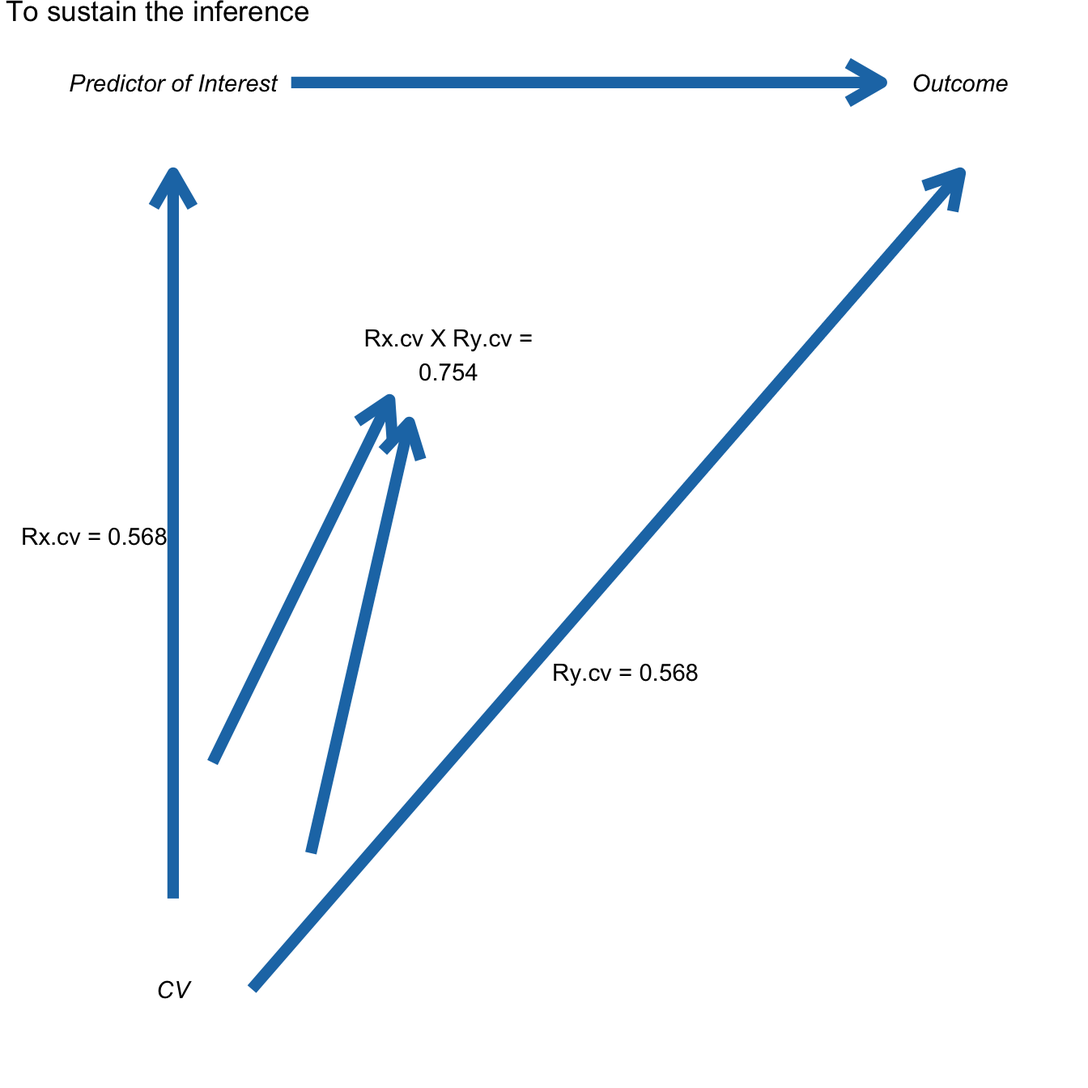
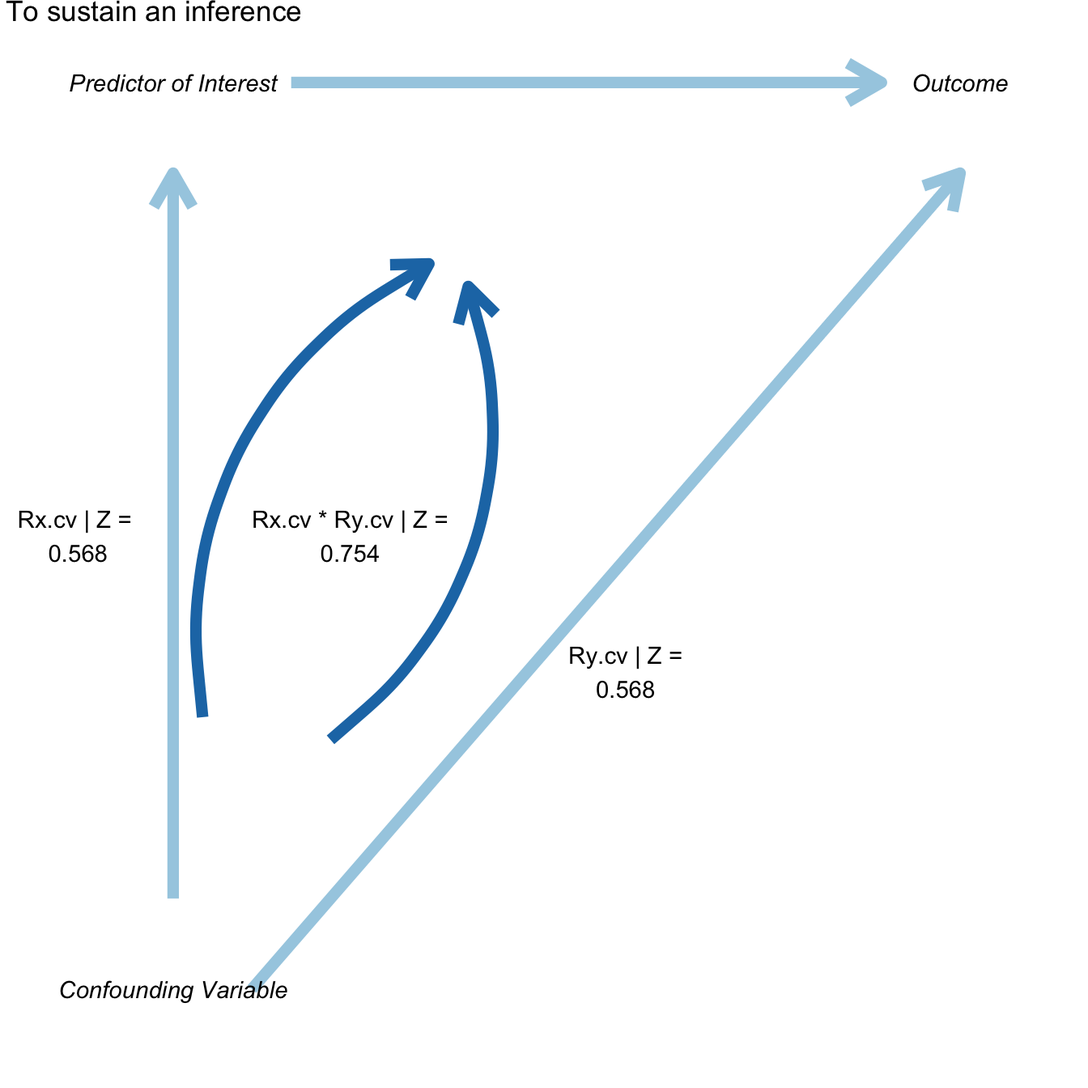
update docs and vignettes and pkgdown site

diff --git a/docs/articles/Introduction_to_konfound.html b/docs/articles/Introduction_to_konfound.html
@@ -50,7 +50,7 @@
       <h1>Introduction to konfound</h1>
                         <h4 class="author">Joshua Rosenberg, Ran Xu, and Ken Frank</h4>
             
-            <h4 class="date">2017-10-22</h4>
+            <h4 class="date">2017-10-28</h4>
           </div>
 
     
@@ -76,28 +76,31 @@
 <div class="sourceCode"><pre class="sourceCode r"><code class="sourceCode r"><span class="kw">library</span>(konfound)</code></pre></div>
 <pre><code>## Loading konfound</code></pre>
 <pre><code>## Sensitivity analysis as described in Frank, Maroulis, Duong, and Kelcey (2013).
-## For more information visit https://jmichaelrosenberg.shinyapps.io/shinykonfound/.
-## You can also find more information by running the function launch_shiny()</code></pre>
+## For more information visit https://jmichaelrosenberg.shinyapps.io/shinykonfound/.</code></pre>
 </div>
 <div id="use-of-pkonfound" class="section level1">
 <h1 class="hasAnchor">
 <a href="#use-of-pkonfound" class="anchor"></a>Use of pkonfound()</h1>
 <div class="sourceCode"><pre class="sourceCode r"><code class="sourceCode r"><span class="kw"><a href="../reference/pkonfound.html">pkonfound</a></span>(<span class="dv">2</span>, .<span class="dv">4</span>, <span class="dv">100</span>, <span class="dv">3</span>)</code></pre></div>
-<pre><code>## To invalidate the inference, 60.3 % of the estimate would have to be due to bias.
-## To invalidate the inference, 60 observations would have to be replaced with cases for which there is no effect.
+<pre><code>## Replacement of Cases Approach:
+## To invalidate the inference, 60.3 % of the estimate would have to be due to bias.
+## To invalidate the inference, 60 observations would have to be replaced with cases for which the effect is 0 .
 ## 
+## Correlation-based Approach:
 ## An omitted variable would have to be correlated at 0.568 with the outcome and at 0.568 with the predictor of interest (conditioning on observed covariates) to invalidate an inference.
-## Correspondingly the impact of an omitted variable (as defined in Frank 2000) must be 0.754 to invalidate an inference.</code></pre>
+## Correspondingly the impact of an omitted variable (as defined in Frank 2000) must be 0.568 * 0.568 = 0.754 to sustain an inference.</code></pre>
 <div class="sourceCode"><pre class="sourceCode r"><code class="sourceCode r"><span class="kw"><a href="../reference/pkonfound.html">pkonfound</a></span>(<span class="dv">2</span>, .<span class="dv">4</span>, <span class="dv">100</span>, <span class="dv">3</span>, <span class="dt">to_return =</span> <span class="st">"thresh_plot"</span>)</code></pre></div>
 <p><img src="Introduction_to_konfound_files/figure-html/unnamed-chunk-3-1.png" width="480"></p>
 <div class="sourceCode"><pre class="sourceCode r"><code class="sourceCode r"><span class="kw"><a href="../reference/pkonfound.html">pkonfound</a></span>(<span class="dv">2</span>, .<span class="dv">4</span>, <span class="dv">100</span>, <span class="dv">3</span>, <span class="dt">to_return =</span> <span class="st">"corr_plot"</span>)</code></pre></div>
 <p><img src="Introduction_to_konfound_files/figure-html/unnamed-chunk-4-1.png" width="672"></p>
 <div class="sourceCode"><pre class="sourceCode r"><code class="sourceCode r"><span class="kw"><a href="../reference/pkonfound.html">pkonfound</a></span>(.<span class="dv">4</span>, <span class="dv">2</span>, <span class="dv">100</span>, <span class="dv">3</span>)</code></pre></div>
-<pre><code>## To sustain the inference,  89.924 % of the estimate would have to be due to bias.
-## To sustain the inference,  90  of the cases with 0 effect would have to be replaced with cases at the threshold of inference.
+<pre><code>## Replacement of Cases Approach:
+## To sustain the inference,  89.924 % of the estimate would have to be due to bias.
+## To sustain the inference,  90  of the cases with 0  effect would have to be replaced with cases at the threshold of inference.
 ## 
+## Correlation-based Approach:
 ## An omitted variable would have to be correlated at 0.387 with the outcome and at 0.387 with the predictor of interest (conditioning on observed covariates) to sustain an inference.
-## Correspondingly the impact of an omitted variable (as defined in Frank 2000) must be 0.622 to sustain an inference.</code></pre>
+## Correspondingly the impact of an omitted variable (as defined in Frank 2000) must be 0.387 * 0.387 = 0.622 to invalidate an inference.</code></pre>
 <div class="sourceCode"><pre class="sourceCode r"><code class="sourceCode r"><span class="kw"><a href="../reference/pkonfound.html">pkonfound</a></span>(.<span class="dv">4</span>, <span class="dv">2</span>, <span class="dv">100</span>, <span class="dv">3</span>, <span class="dt">to_return =</span> <span class="st">"thresh_plot"</span>)</code></pre></div>
 <p><img src="Introduction_to_konfound_files/figure-html/unnamed-chunk-5-1.png" width="480"></p>
 <div class="sourceCode"><pre class="sourceCode r"><code class="sourceCode r"><span class="kw"><a href="../reference/pkonfound.html">pkonfound</a></span>(.<span class="dv">4</span>, <span class="dv">2</span>, <span class="dv">100</span>, <span class="dv">3</span>, <span class="dt">to_return =</span> <span class="st">"corr_plot"</span>)</code></pre></div>
@@ -119,11 +122,13 @@ m1</code></pre></div>
 ## (Intercept)           wt           hp  
 ##    37.22727     -3.87783     -0.03177</code></pre>
 <div class="sourceCode"><pre class="sourceCode r"><code class="sourceCode r"><span class="kw"><a href="../reference/konfound.html">konfound</a></span>(m1, hp)</code></pre></div>
-<pre><code>## To invalidate the inference, 42.561 % of the estimate would have to be due to bias.
-## To invalidate the inference, 14 observations would have to be replaced with cases for which there is no effect.
+<pre><code>## Replacement of Cases Approach:
+## To invalidate the inference, 42.561 % of the estimate would have to be due to bias.
+## To invalidate the inference, 14 observations would have to be replaced with cases for which the effect is 0 .
 ## 
+## Correlation-based Approach:
 ## An omitted variable would have to be correlated at 0.556 with the outcome and at 0.556 with the predictor of interest (conditioning on observed covariates) to invalidate an inference.
-## Correspondingly the impact of an omitted variable (as defined in Frank 2000) must be 0.746 to invalidate an inference.</code></pre>
+## Correspondingly the impact of an omitted variable (as defined in Frank 2000) must be 0.556 * 0.556 = 0.746 to sustain an inference.</code></pre>
 <div class="sourceCode"><pre class="sourceCode r"><code class="sourceCode r"><span class="kw"><a href="../reference/konfound.html">konfound</a></span>(m1, <span class="dt">test_all =</span> T)</code></pre></div>
 <pre><code>##   var_name unstd_beta std_err n_obs n_covariates
 ## 1       wt     -3.878   0.633    32            1
@@ -145,11 +150,13 @@ d<span class="op">$</span>married &lt;-<span class="st"> </span><span class="kw"
 
 m2 &lt;-<span class="st"> </span><span class="kw">glm</span>(married <span class="op">~</span><span class="st"> </span>age, <span class="dt">data =</span> d, <span class="dt">family =</span> <span class="kw">binomial</span>(<span class="dt">link =</span> <span class="st">"logit"</span>))
 <span class="kw"><a href="../reference/konfound.html">konfound</a></span>(m2, age)</code></pre></div>
-<pre><code>## To sustain the inference,  80.978 % of the estimate would have to be due to bias.
-## To sustain the inference,  17334  of the cases with 0 effect would have to be replaced with cases at the threshold of inference.
+<pre><code>## Replacement of Cases Approach:
+## To sustain the inference,  80.978 % of the estimate would have to be due to bias.
+## To sustain the inference,  17334  of the cases with 0  effect would have to be replaced with cases at the threshold of inference.
 ## 
+## Correlation-based Approach:
 ## An omitted variable would have to be correlated at 5.535 with the outcome and at 5.535 with the predictor of interest (conditioning on observed covariates) to invalidate an inference.
-## Correspondingly the impact of an omitted variable (as defined in Frank 2000) must be 2.353 to invalidate an inference.</code></pre>
+## Correspondingly the impact of an omitted variable (as defined in Frank 2000) must be 5.535 * 5.535 = 2.353 to sustain an inference.</code></pre>
 </div>
 </div>
 <div id="use-of-mkonfound" class="section level1">
@@ -195,6 +202,14 @@ m2 &lt;-<span class="st"> </span><span class="kw">glm</span>(married <span class
 <pre><code>## `stat_bin()` using `bins = 30`. Pick better value with `binwidth`.</code></pre>
 <p><img src="Introduction_to_konfound_files/figure-html/unnamed-chunk-9-1.png" width="480"></p>
 </div>
+<div id="references" class="section level1">
+<h1 class="hasAnchor">
+<a href="#references" class="anchor"></a>References</h1>
+<p>Frank, K.A., Maroulis, S., Duong, M., and Kelcey, B. 2013. What would it take to Change an Inference?: Using Rubin’s Causal Model to Interpret the Robustness of Causal Inferences. Education, Evaluation and Policy Analysis. Vol 35: 437-460. <a href="https://msu.edu/~kenfrank/What%20would%20it%20take%20to%20Change%20an%20Inference%20published.docx">https://msu.edu/~kenfrank/What%20would%20it%20take%20to%20Change%20an%20Inference%20published.docx</a></p>
+<p>Frank, K.A., Gary Sykes, Dorothea Anagnostopoulos, Marisa Cannata, Linda Chard, Ann Krause, Raven McCrory. 2008. Extended Influence: National Board Certified Teachers as Help Providers. Education, Evaluation, and Policy Analysis. Vol 30(1): 3-30. <a href="https://msu.edu/~kenfrank/papers/Does%20NBPTS%20Certification%20Affect%20the%20Number%20of%20Colleagues%20a%20Teacher%20Helps%20with%20Instructional%20Matters%20acceptance%20version%202.doc">https://msu.edu/~kenfrank/papers/Does%20NBPTS%20Certification%20Affect%20the%20Number%20of%20Colleagues%20a%20Teacher%20Helps%20with%20Instructional%20Matters%20acceptance%20version%202.doc</a></p>
+<p>Frank, K. A. and Min, K. 2007. Indices of Robustness for Sample Representation. Sociological Methodology. Vol 37, 349-392. <a href="https://msu.edu/~kenfrank/papers/INDICES%20OF%20ROBUSTNESS%20TO%20CONCERNS%20REGARDING%20THE%20REPRESENTATIVENESS%20OF%20A%20SAMPLE.doc">https://msu.edu/~kenfrank/papers/INDICES%20OF%20ROBUSTNESS%20TO%20CONCERNS%20REGARDING%20THE%20REPRESENTATIVENESS%20OF%20A%20SAMPLE.doc</a> *co first authors.</p>
+<p>Frank, K. 2000. “Impact of a Confounding Variable on the Inference of a Regression Coefficient.” Sociological Methods and Research, 29(2), 147-194 <a href="https://msu.edu/~kenfrank/papers/impact%20of%20a%20confounding%20variable.pdf">https://msu.edu/~kenfrank/papers/impact%20of%20a%20confounding%20variable.pdf</a></p>
+</div>
 </div>
   </div>
 
@@ -209,6 +224,7 @@ m2 &lt;-<span class="st"> </span><span class="kw">glm</span>(married <span class
       <li><a href="#use-of-pkonfound">Use of pkonfound()</a></li>
       <li><a href="#use-of-konfound">Use of konfound()</a></li>
       <li><a href="#use-of-mkonfound">Use of mkonfound()</a></li>
+      <li><a href="#references">References</a></li>
       </ul>
 </div>
       </div>

diff --git a/docs/index.html b/docs/index.html
@@ -66,8 +66,7 @@ devtools<span class="op">::</span><span class="kw">install_github</span>(<span c
 <div class="sourceCode"><pre class="sourceCode r"><code class="sourceCode r"><span class="kw">library</span>(konfound)</code></pre></div>
 <pre><code>#&gt; Loading konfound
 #&gt; Sensitivity analysis as described in Frank, Maroulis, Duong, and Kelcey (2013).
-#&gt; For more information visit https://jmichaelrosenberg.shinyapps.io/shinykonfound/.
-#&gt; You can also find more information by running the function launch_shiny()</code></pre>
+#&gt; For more information visit https://jmichaelrosenberg.shinyapps.io/shinykonfound/.</code></pre>
 </div>
 <div id="use-of-konfound" class="section level1">
 <h1 class="hasAnchor">
@@ -78,11 +77,13 @@ devtools<span class="op">::</span><span class="kw">install_github</span>(<span c
 <p><code><a href="reference/pkonfound.html">pkonfound()</a></code>, for published studies, calculates (1) how much bias there must be in an estimate to invalidate/sustain an inference; (2) the impact of an omitted variable necessary to invalidate/sustain an inference for a regression coefficient:</p>
 <div class="sourceCode"><pre class="sourceCode r"><code class="sourceCode r"><span class="kw">library</span>(konfound)</code></pre></div>
 <div class="sourceCode"><pre class="sourceCode r"><code class="sourceCode r"><span class="kw"><a href="reference/pkonfound.html">pkonfound</a></span>(<span class="dv">2</span>, .<span class="dv">4</span>, <span class="dv">100</span>, <span class="dv">3</span>)
+<span class="co">#&gt; Replacement of Cases Approach:</span>
 <span class="co">#&gt; To invalidate the inference, 60.3 % of the estimate would have to be due to bias.</span>
-<span class="co">#&gt; To invalidate the inference, 60 observations would have to be replaced with cases for which there is no effect.</span>
+<span class="co">#&gt; To invalidate the inference, 60 observations would have to be replaced with cases for which the effect is 0 .</span>
 <span class="co">#&gt; </span>
+<span class="co">#&gt; Correlation-based Approach:</span>
 <span class="co">#&gt; An omitted variable would have to be correlated at 0.568 with the outcome and at 0.568 with the predictor of interest (conditioning on observed covariates) to invalidate an inference.</span>
-<span class="co">#&gt; Correspondingly the impact of an omitted variable (as defined in Frank 2000) must be 0.754 to invalidate an inference.</span></code></pre></div>
+<span class="co">#&gt; Correspondingly the impact of an omitted variable (as defined in Frank 2000) must be 0.568 * 0.568 = 0.754 to sustain an inference.</span></code></pre></div>
 </div>
 <div id="konfound-for-models-fit-in-r" class="section level4">
 <h4 class="hasAnchor">
@@ -99,11 +100,13 @@ m1
 <span class="co">#&gt;    37.22727     -3.87783     -0.03177</span></code></pre></div>
 <p>Sensitivity analysis for the effect for <code>wt</code> on <code>mpg</code> can be carried out as follows, specifying the fitted model object:</p>
 <div class="sourceCode"><pre class="sourceCode r"><code class="sourceCode r"><span class="kw"><a href="reference/konfound.html">konfound</a></span>(m1, wt)
+<span class="co">#&gt; Replacement of Cases Approach:</span>
 <span class="co">#&gt; To invalidate the inference, 66.664 % of the estimate would have to be due to bias.</span>
-<span class="co">#&gt; To invalidate the inference, 21 observations would have to be replaced with cases for which there is no effect.</span>
+<span class="co">#&gt; To invalidate the inference, 21 observations would have to be replaced with cases for which the effect is 0 .</span>
 <span class="co">#&gt; </span>
+<span class="co">#&gt; Correlation-based Approach:</span>
 <span class="co">#&gt; An omitted variable would have to be correlated at 0.787 with the outcome and at 0.787 with the predictor of interest (conditioning on observed covariates) to invalidate an inference.</span>
-<span class="co">#&gt; Correspondingly the impact of an omitted variable (as defined in Frank 2000) must be 0.887 to invalidate an inference.</span></code></pre></div>
+<span class="co">#&gt; Correspondingly the impact of an omitted variable (as defined in Frank 2000) must be 0.787 * 0.787 = 0.887 to sustain an inference.</span></code></pre></div>
 </div>
 <div id="mkonfound-for-meta-analyses-including-sensitivity-analysis" class="section level4">
 <h4 class="hasAnchor">
@@ -138,7 +141,7 @@ df &lt;-<span class="st"> </span><span class="kw">tribble</span>(
 <p>For more information, please see:</p>
 <ul>
 <li>The <a href="https://jrosen48.github.io/konfound/articles/Introduction_to_konfound.html">Introduction to konfound vignette</a>, with detailed information about each of the functions (<code><a href="reference/pkonfound.html">pkonfound()</a></code>, <code><a href="reference/konfound.html">konfound()</a></code>, and <code>mkounfound()</code>)</li>
-<li>Ken Frank’s website <a href="https://msu.edu/~kenfrank/research.htm">here</a>
+<li>The causal inference section of Ken Frank’s website <a href="https://msu.edu/~kenfrank/research.htm#causal">here</a>
 </li>
 <li>The <a href="https://jmichaelrosenberg.shinyapps.io/shinykonfound/">konfound interactive web application</a>, with links to PowerPoints and key publications</li>
 </ul>
@@ -157,10 +160,15 @@ df &lt;-<span class="st"> </span><span class="kw">tribble</span>(
 <div id="code-of-conduct" class="section level2">
 <h2 class="hasAnchor">
 <a href="#code-of-conduct" class="anchor"></a>Code of Conduct</h2>
-<p>Please note that this project is released with a Contributor Code of Conduct. By participating in this project you agree to abide by its terms below. This Code of Conduct is adapted from the Contributor Covenant (<a href="http:contributor-covenant.org" class="uri">http:contributor-covenant.org</a>), version 1.0.0, available at <a href="http://contributor-covenant.org/version/1/0/0/" class="uri">http://contributor-covenant.org/version/1/0/0/</a></p>
-<blockquote>
-<p>As contributors and maintainers of this project, we pledge to respect all people who contribute through reporting issues, posting feature requests, updating documentation, submitting pull requests or patches, and other activities. We are committed to making participation in this project a harassment-free experience for everyone, regardless of level of experience, gender, gender identity and expression, sexual orientation, disability, personal appearance, body size, race, ethnicity, age, or religion. Examples of unacceptable behavior by participants include the use of sexual language or imagery, derogatory comments or personal attacks, trolling, public or private harassment, insults, or other unprofessional conduct. Project maintainers have the right and responsibility to remove, edit, or reject comments, commits, code, wiki edits, issues, and other contributions that are not aligned to this Code of Conduct. Project maintainers who do not follow the Code of Conduct may be removed from the project team. Instances of abusive, harassing, or otherwise unacceptable behavior may be reported by opening an issue or contacting one or more of the project maintainers.</p>
-</blockquote>
+<p>Please note that this project is released with a Contributor Code of Conduct available at <a href="http://contributor-covenant.org/version/1/0/0/" class="uri">http://contributor-covenant.org/version/1/0/0/</a></p>
+</div>
+<div id="references" class="section level2">
+<h2 class="hasAnchor">
+<a href="#references" class="anchor"></a>References</h2>
+<p>Frank, K.A., Maroulis, S., Duong, M., and Kelcey, B. 2013. What would it take to Change an Inference?: Using Rubin’s Causal Model to Interpret the Robustness of Causal Inferences. Education, Evaluation and Policy Analysis. Vol 35: 437-460. <a href="https://msu.edu/~kenfrank/What%20would%20it%20take%20to%20Change%20an%20Inference%20published.docx">https://msu.edu/~kenfrank/What%20would%20it%20take%20to%20Change%20an%20Inference%20published.docx</a></p>
+<p>Frank, K.A., Gary Sykes, Dorothea Anagnostopoulos, Marisa Cannata, Linda Chard, Ann Krause, Raven McCrory. 2008. Extended Influence: National Board Certified Teachers as Help Providers. Education, Evaluation, and Policy Analysis. Vol 30(1): 3-30. <a href="https://msu.edu/~kenfrank/papers/Does%20NBPTS%20Certification%20Affect%20the%20Number%20of%20Colleagues%20a%20Teacher%20Helps%20with%20Instructional%20Matters%20acceptance%20version%202.doc">https://msu.edu/~kenfrank/papers/Does%20NBPTS%20Certification%20Affect%20the%20Number%20of%20Colleagues%20a%20Teacher%20Helps%20with%20Instructional%20Matters%20acceptance%20version%202.doc</a></p>
+<p>Frank, K. A. and Min, K. 2007. Indices of Robustness for Sample Representation. Sociological Methodology. Vol 37, 349-392. <a href="https://msu.edu/~kenfrank/papers/INDICES%20OF%20ROBUSTNESS%20TO%20CONCERNS%20REGARDING%20THE%20REPRESENTATIVENESS%20OF%20A%20SAMPLE.doc">https://msu.edu/~kenfrank/papers/INDICES%20OF%20ROBUSTNESS%20TO%20CONCERNS%20REGARDING%20THE%20REPRESENTATIVENESS%20OF%20A%20SAMPLE.doc</a> *co first authors.</p>
+<p>Frank, K. 2000. “Impact of a Confounding Variable on the Inference of a Regression Coefficient.” Sociological Methods and Research, 29(2), 147-194 <a href="https://msu.edu/~kenfrank/papers/impact%20of%20a%20confounding%20variable.pdf">https://msu.edu/~kenfrank/papers/impact%20of%20a%20confounding%20variable.pdf</a></p>
 </div>
 </div>
 </div>

diff --git a/docs/reference/pkonfound.html b/docs/reference/pkonfound.html
@@ -130,15 +130,19 @@
     
 
     <h2 class="hasAnchor" id="examples"><a class="anchor" href="#examples"></a>Examples</h2>
-    <pre class="examples"><div class='input'><span class='fu'>pkonfound</span>(<span class='fl'>2</span>, <span class='fl'>.4</span>, <span class='fl'>100</span>, <span class='fl'>3</span>)</div><div class='output co'>#&gt; To invalidate the inference, 60.3 % of the estimate would have to be due to bias.
-#&gt; To invalidate the inference, 60 observations would have to be replaced with cases for which there is no effect.
+    <pre class="examples"><div class='input'><span class='fu'>pkonfound</span>(<span class='fl'>2</span>, <span class='fl'>.4</span>, <span class='fl'>100</span>, <span class='fl'>3</span>)</div><div class='output co'>#&gt; Replacement of Cases Approach:
+#&gt; To invalidate the inference, 60.3 % of the estimate would have to be due to bias.
+#&gt; To invalidate the inference, 60 observations would have to be replaced with cases for which the effect is 0 .
 #&gt; 
+#&gt; Correlation-based Approach:
 #&gt; An omitted variable would have to be correlated at 0.568 with the outcome and at 0.568 with the predictor of interest (conditioning on observed covariates) to invalidate an inference.
-#&gt; Correspondingly the impact of an omitted variable (as defined in Frank 2000) must be 0.754 to invalidate an inference.</div><div class='input'><span class='fu'>pkonfound</span>(<span class='fl'>.4</span>, <span class='fl'>2</span>, <span class='fl'>100</span>, <span class='fl'>3</span>)</div><div class='output co'>#&gt; To sustain the inference,  89.924 % of the estimate would have to be due to bias.
-#&gt; To sustain the inference,  90  of the cases with 0 effect would have to be replaced with cases at the threshold of inference.
+#&gt; Correspondingly the impact of an omitted variable (as defined in Frank 2000) must be 0.568 * 0.568 = 0.754 to sustain an inference.</div><div class='input'><span class='fu'>pkonfound</span>(<span class='fl'>.4</span>, <span class='fl'>2</span>, <span class='fl'>100</span>, <span class='fl'>3</span>)</div><div class='output co'>#&gt; Replacement of Cases Approach:
+#&gt; To sustain the inference,  89.924 % of the estimate would have to be due to bias.
+#&gt; To sustain the inference,  90  of the cases with 0  effect would have to be replaced with cases at the threshold of inference.
 #&gt; 
+#&gt; Correlation-based Approach:
 #&gt; An omitted variable would have to be correlated at 0.387 with the outcome and at 0.387 with the predictor of interest (conditioning on observed covariates) to sustain an inference.
-#&gt; Correspondingly the impact of an omitted variable (as defined in Frank 2000) must be 0.622 to sustain an inference.</div></pre>
+#&gt; Correspondingly the impact of an omitted variable (as defined in Frank 2000) must be 0.387 * 0.387 = 0.622 to invalidate an inference.</div></pre>
   </div>
   <div class="col-md-3 hidden-xs hidden-sm" id="sidebar">
     <h2>Contents</h2>

diff --git a/docs/reference/konfound.html b/docs/reference/konfound.html
@@ -122,11 +122,13 @@
 
     <h2 class="hasAnchor" id="examples"><a class="anchor" href="#examples"></a>Examples</h2>
     <pre class="examples"><div class='input'><span class='no'>m1</span> <span class='kw'>&lt;-</span> <span class='fu'>lm</span>(<span class='no'>mpg</span> ~ <span class='no'>wt</span> + <span class='no'>hp</span>, <span class='kw'>data</span> <span class='kw'>=</span> <span class='no'>mtcars</span>)
-<span class='fu'>konfound</span>(<span class='no'>m1</span>, <span class='no'>wt</span>)</div><div class='output co'>#&gt; To invalidate the inference, 66.664 % of the estimate would have to be due to bias.
-#&gt; To invalidate the inference, 21 observations would have to be replaced with cases for which there is no effect.
+<span class='fu'>konfound</span>(<span class='no'>m1</span>, <span class='no'>wt</span>)</div><div class='output co'>#&gt; Replacement of Cases Approach:
+#&gt; To invalidate the inference, 66.664 % of the estimate would have to be due to bias.
+#&gt; To invalidate the inference, 21 observations would have to be replaced with cases for which the effect is 0 .
 #&gt; 
+#&gt; Correlation-based Approach:
 #&gt; An omitted variable would have to be correlated at 0.787 with the outcome and at 0.787 with the predictor of interest (conditioning on observed covariates) to invalidate an inference.
-#&gt; Correspondingly the impact of an omitted variable (as defined in Frank 2000) must be 0.887 to invalidate an inference.</div></pre>
+#&gt; Correspondingly the impact of an omitted variable (as defined in Frank 2000) must be 0.787 * 0.787 = 0.887 to sustain an inference.</div></pre>
   </div>
   <div class="col-md-3 hidden-xs hidden-sm" id="sidebar">
     <h2>Contents</h2>

diff --git a/README.md b/README.md
@@ -22,7 +22,6 @@ library(konfound)
     #> Loading konfound
     #> Sensitivity analysis as described in Frank, Maroulis, Duong, and Kelcey (2013).
     #> For more information visit https://jmichaelrosenberg.shinyapps.io/shinykonfound/.
-    #> You can also find more information by running the function launch_shiny()
 
 Use of konfound
 ===============
@@ -37,11 +36,13 @@ library(konfound)
 
 ``` r
 pkonfound(2, .4, 100, 3)
+#> Replacement of Cases Approach:
 #> To invalidate the inference, 60.3 % of the estimate would have to be due to bias.
-#> To invalidate the inference, 60 observations would have to be replaced with cases for which there is no effect.
+#> To invalidate the inference, 60 observations would have to be replaced with cases for which the effect is 0 .
 #> 
+#> Correlation-based Approach:
 #> An omitted variable would have to be correlated at 0.568 with the outcome and at 0.568 with the predictor of interest (conditioning on observed covariates) to invalidate an inference.
-#> Correspondingly the impact of an omitted variable (as defined in Frank 2000) must be 0.754 to invalidate an inference.
+#> Correspondingly the impact of an omitted variable (as defined in Frank 2000) must be 0.568 * 0.568 = 0.754 to sustain an inference.
 ```
 
 #### konfound() for models fit in R
@@ -64,11 +65,13 @@ Sensitivity analysis for the effect for `wt` on `mpg` can be carried out as foll
 
 ``` r
 konfound(m1, wt)
+#> Replacement of Cases Approach:
 #> To invalidate the inference, 66.664 % of the estimate would have to be due to bias.
-#> To invalidate the inference, 21 observations would have to be replaced with cases for which there is no effect.
+#> To invalidate the inference, 21 observations would have to be replaced with cases for which the effect is 0 .
 #> 
+#> Correlation-based Approach:
 #> An omitted variable would have to be correlated at 0.787 with the outcome and at 0.787 with the predictor of interest (conditioning on observed covariates) to invalidate an inference.
-#> Correspondingly the impact of an omitted variable (as defined in Frank 2000) must be 0.887 to invalidate an inference.
+#> Correspondingly the impact of an omitted variable (as defined in Frank 2000) must be 0.787 * 0.787 = 0.887 to sustain an inference.
 ```
 
 #### mkonfound for meta-analyses including sensitivity analysis
@@ -104,7 +107,7 @@ How to learn more about sensitivity analysis
 For more information, please see:
 
 -   The [Introduction to konfound vignette](https://jrosen48.github.io/konfound/articles/Introduction_to_konfound.html), with detailed information about each of the functions (`pkonfound()`, `konfound()`, and `mkounfound()`)
--   Ken Frank's website [here](https://msu.edu/~kenfrank/research.htm)
+-   The causal inference section of Ken Frank's website [here](https://msu.edu/~kenfrank/research.htm#causal)
 -   The [konfound interactive web application](https://jmichaelrosenberg.shinyapps.io/shinykonfound/), with links to PowerPoints and key publications
 
 Feedback, issues, and feature requests
@@ -121,6 +124,15 @@ Here are a few things we are working on at present:
 Code of Conduct
 ---------------
 
-Please note that this project is released with a Contributor Code of Conduct. By participating in this project you agree to abide by its terms below. This Code of Conduct is adapted from the Contributor Covenant (<http:contributor-covenant.org>), version 1.0.0, available at <http://contributor-covenant.org/version/1/0/0/>
+Please note that this project is released with a Contributor Code of Conduct available at <http://contributor-covenant.org/version/1/0/0/>
 
-> As contributors and maintainers of this project, we pledge to respect all people who contribute through reporting issues, posting feature requests, updating documentation, submitting pull requests or patches, and other activities. We are committed to making participation in this project a harassment-free experience for everyone, regardless of level of experience, gender, gender identity and expression, sexual orientation, disability, personal appearance, body size, race, ethnicity, age, or religion. Examples of unacceptable behavior by participants include the use of sexual language or imagery, derogatory comments or personal attacks, trolling, public or private harassment, insults, or other unprofessional conduct. Project maintainers have the right and responsibility to remove, edit, or reject comments, commits, code, wiki edits, issues, and other contributions that are not aligned to this Code of Conduct. Project maintainers who do not follow the Code of Conduct may be removed from the project team. Instances of abusive, harassing, or otherwise unacceptable behavior may be reported by opening an issue or contacting one or more of the project maintainers.
+References
+----------
+
+Frank, K.A., Maroulis, S., Duong, M., and Kelcey, B. 2013. What would it take to Change an Inference?: Using Rubin’s Causal Model to Interpret the Robustness of Causal Inferences. Education, Evaluation and Policy Analysis. Vol 35: 437-460. <https://msu.edu/~kenfrank/What%20would%20it%20take%20to%20Change%20an%20Inference%20published.docx>
+
+Frank, K.A., Gary Sykes, Dorothea Anagnostopoulos, Marisa Cannata, Linda Chard, Ann Krause, Raven McCrory. 2008. Extended Influence: National Board Certified Teachers as Help Providers. Education, Evaluation, and Policy Analysis. Vol 30(1): 3-30. <https://msu.edu/~kenfrank/papers/Does%20NBPTS%20Certification%20Affect%20the%20Number%20of%20Colleagues%20a%20Teacher%20Helps%20with%20Instructional%20Matters%20acceptance%20version%202.doc>
+
+Frank, K. A. and Min, K. 2007. Indices of Robustness for Sample Representation. Sociological Methodology. Vol 37, 349-392. <https://msu.edu/~kenfrank/papers/INDICES%20OF%20ROBUSTNESS%20TO%20CONCERNS%20REGARDING%20THE%20REPRESENTATIVENESS%20OF%20A%20SAMPLE.doc> \*co first authors.
+
+Frank, K. 2000. "Impact of a Confounding Variable on the Inference of a Regression Coefficient." Sociological Methods and Research, 29(2), 147-194 <https://msu.edu/~kenfrank/papers/impact%20of%20a%20confounding%20variable.pdf>
